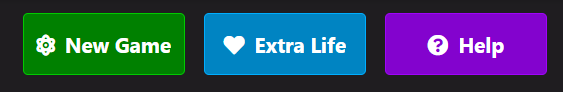
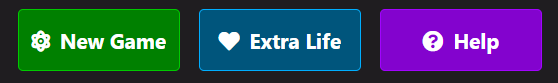
buttons contrast edit

diff --git a/assets/css/style.css b/assets/css/style.css
@@ -104,7 +104,7 @@ body {
 
 .btn--help {
     background-color: rgb(131, 3, 206);
-    border: 1px solid rgb(159, 5, 248);
+    border: 1px solid rgb(162, 3, 255);
 }
 
 .btn--help:active {
@@ -113,11 +113,11 @@ body {
 
 .btn--more-lives {
     background-color: rgb(0, 85, 124);
-    border: 1px solid rgb(0, 52, 77);
+    border: 1px solid rgb(0, 174, 255);
 }
 
 .btn--more-lives:active {
-    background-color: rgb(0, 98, 143);
+    background-color: rgb(0, 53, 78);
 }
 
 .btn--close {
